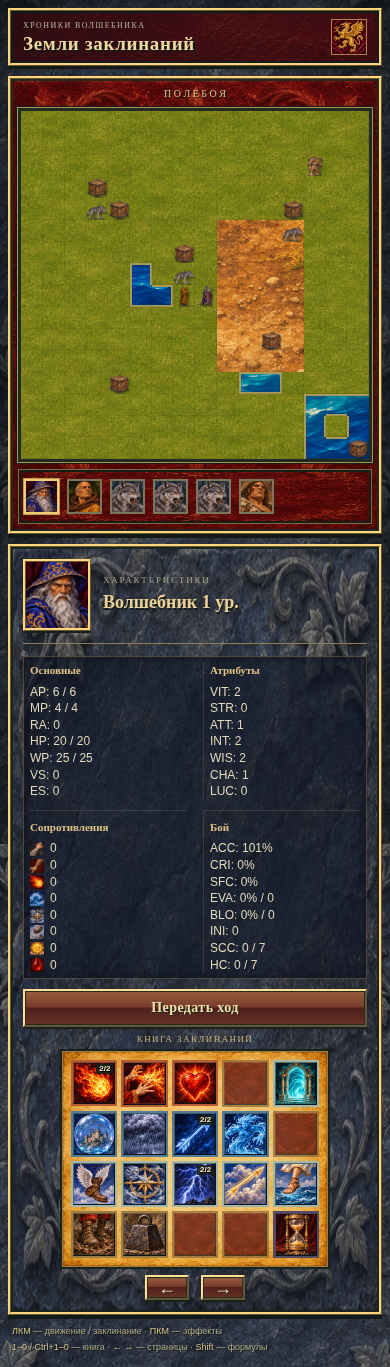
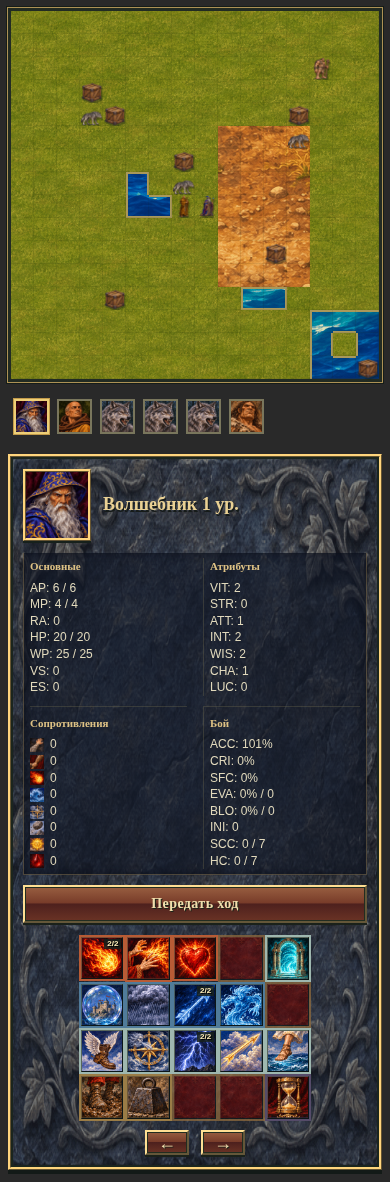
Simplify graphics layout and remove decorative panels and captions

diff --git a/homm2.css b/homm2.css
@@ -8,42 +8,20 @@
   --parchment: #e5d2a4;
 }
 body {
-  background: #1c202c url('assets/homm2/stone.png') center/512px 512px repeat;
+  background: #292929;
   color: var(--parchment);
   font-family: Georgia, 'Times New Roman', serif;
-}
-body::before {
-  content: ''; position: fixed; inset: 0; pointer-events: none;
-  box-shadow: inset 0 0 100px 28px #0c1012b0;
 }
 .game {
   position: relative; display: grid;
   grid-template-columns: auto 306px;
-  grid-template-areas: 'banner banner' 'arena panel' 'footer footer';
-  gap: 12px 16px;
+  grid-template-areas: 'arena panel';
+  gap: 16px;
   max-width: calc(100vw - 40px);
 }
-.campaign-banner {
-  grid-area: banner; position: relative; min-height: 66px;
-  display: flex; align-items: center; justify-content: space-between; gap: 18px;
-  padding: 10px 22px; border: 3px ridge var(--gold);
-  background: linear-gradient(90deg, #210e16b0, #24101b70), url('assets/homm2/leather.png') center/cover;
-  box-shadow: 0 3px 0 #151a16, inset 0 0 0 2px #101b1a;
-}
-.campaign-title { font-size: 23px; font-weight: bold; color: #f0d89d; text-shadow: 2px 2px #101817; letter-spacing: .7px; }
-.campaign-eyebrow { color: #b4b29a; font: 10px/1.7 Georgia, serif; text-transform: uppercase; letter-spacing: 2.4px; }
-.campaign-mark { display: block; flex: 0 0 48px; width: 48px; height: 44px; font-size: 0; background: url('assets/homm2/crest.png') center/cover; border: 1px solid #ad8440; }
-.campaign-subtitle { color: #c2c0a8; font-size: 11px; text-align: right; line-height: 1.6; }
 .arena {
   grid-area: arena; width: auto; align-self: start;
-  gap: 9px; padding: 10px; border: 3px ridge var(--gold);
-  background: #4d1b22 url('assets/homm2/leather.png') center/100% 100%;
-  box-shadow: 0 4px 0 #141917, inset 0 0 0 2px #24271d;
-}
-.arena::before {
-  content: 'П О Л Е   Б О Я'; align-self: stretch; text-align: center;
-  font-size: 10px; line-height: 15px; color: #e0c283;
-  text-shadow: 1px 1px #161c18;
+  gap: 9px; padding: 0; border: 0; background: transparent; box-shadow: none;
 }
 #battlefield {
   width: min(calc(100vw - 406px), calc(100dvh - 246px));
@@ -65,8 +43,7 @@ svg, svg image, #creature-portrait { image-rendering: auto; }
 #battlefield :is(.wizard,.monk,.wolf,.lake-spirit,.hill-giant,.obstacle) { filter: drop-shadow(1px 2px 0 #15201465); }
 #turn-order {
   min-height: 55px; height: 55px; border-radius: 0;
-  background: #251924 url('assets/homm2/leather.png') center/100% 100%;
-  box-shadow: inset 0 0 0 1px #7c6b43, inset 0 0 0 3px #161d17;
+  background: transparent; box-shadow: none;
   scrollbar-color: #8c774a #1b211c;
 }
 #turn-order::-webkit-scrollbar-track { background: #1b211c; border-radius: 0; }
@@ -87,7 +64,7 @@ svg, svg image, #creature-portrait { image-rendering: auto; }
 }
 .hero-masthead {
   display: flex; align-items: center; gap: 12px;
-  margin: 0 0 12px; padding-bottom: 12px; border-bottom: 1px solid #8c8050;
+  margin: 0 0 12px; padding-bottom: 0; border-bottom: 0;
 }
 .portrait-frame {
   width: 68px; height: 72px; flex: 0 0 68px;
@@ -95,9 +72,8 @@ svg, svg image, #creature-portrait { image-rendering: auto; }
   box-shadow: 0 2px #17211c;
 }
 #creature-portrait { display: block; width: 100%; height: 100%; object-fit: cover; }
-.hero-caption { color: #aaa78a; text-transform: uppercase; font-size: 9px; letter-spacing: 1.8px; margin-bottom: 6px; }
 .panel h1 { margin: 0; color: #ead194; font: bold 17px/1.3 Georgia, serif; text-shadow: 1px 2px #161b19; }
-.stats { font-family: 'Trebuchet MS', Arial, sans-serif; font-size: 12px; line-height: 1.26; gap: 9px 10px; color: #e1d9bc; padding: 5px 6px; border: 1px solid #b99a5b55; background: #1017259c; box-shadow: inset 0 0 12px #080c16b0; }
+.stats { font-family: 'Trebuchet MS', Arial, sans-serif; font-size: 12px; line-height: 1.26; gap: 9px 10px; color: #e1d9bc; padding: 5px 6px; border: 1px solid #b99a5b55; border-top: 0; background: #1017259c; box-shadow: inset 0 0 12px #080c16b0; }
 .stat-column h2 { color: #ddc184; font: bold 11px/1.6 Georgia, serif; margin-bottom: 4px; }
 .stat-column:nth-child(even), .stat-column:nth-child(n+3) { border-color: #7d77534d; }
 .stat-column > span { min-height: 15px; }
@@ -115,13 +91,9 @@ button { -webkit-tap-highlight-color: transparent; }
 #end-turn:active:not(:disabled), .spell-pages button:active:not(:disabled) { border-style: inset; }
 .spell-pages button:disabled { background: #30382b; color: #7d8066; border-color: #6e704e; }
 .spells {
-  width: 264px; gap: 4px; margin-top: 24px; position: relative;
-  padding: 8px; background: #b79c65 url('assets/homm2/parchment.png') center/100% 100%;
-  box-shadow: 0 0 0 1px #957e4e, 0 0 0 3px #1a231b;
-}
-.spells::before {
-  content: 'КНИГА ЗАКЛИНАНИЙ'; position: absolute; top: -19px; left: 0; right: 0;
-  text-align: center; color: #c9b77d; font: 9px/1.5 Georgia, serif; letter-spacing: 1.4px;
+  /* Preserve slot size: 264 - 2×8 padding - 4×4 gaps = 232px. */
+  width: 232px; gap: 0; margin-top: 12px; position: relative;
+  padding: 0; background: transparent; box-shadow: none;
 }
 .spell-slot { padding: 1px; background: #202c27; border-color: #776f51; box-shadow: inset 1px 1px #d2b77933, inset -1px -1px #0c1618; }
 .spell-slot:not(button) { background: #321920 url('assets/homm2/leather.png') center/cover; border-color: #8e6a3d; opacity: .75; }
@@ -154,12 +126,6 @@ button:focus-visible { outline: 2px solid #ffe8a0; outline-offset: 2px; }
 .effect-icon { border-radius: 0; }
 .effect-icon.suppressed { opacity: .4; filter: grayscale(1); }
 .close-effects { top: 0; }
-.campaign-footer {
-  grid-area: footer; display: flex; justify-content: space-between; gap: 18px;
-  color: #b1ac8a; text-shadow: 1px 1px #141b16;
-  font: 10px/1.5 'Trebuchet MS', sans-serif; padding-inline: 4px;
-}
-.campaign-footer b { color: #d4c28c; font-weight: normal; }
 .path-cost, .effect-preview { border-radius: 0; background: #18221de8; }
 .damage-label, .bonus-label, .miss-label, .failure-label { font-family: Georgia, serif; text-shadow: 1px 1px #171a16, -1px 0 #171a16, 0 1px #171a16; }
 .spell-projectile[data-type='fire'] { background: url('assets/homm2/spell-fire-shot.png') center/contain; }
@@ -178,9 +144,7 @@ button:focus-visible { outline: 2px solid #ffe8a0; outline-offset: 2px; }
 .defeat-message { font-family: Georgia, serif; color: #d6b670; }
 .defeat-hint { color: #d4c49d; font-family: Georgia, serif; }
 @media (max-height: 760px) and (min-width: 641px) {
-  .campaign-banner { min-height: 48px; padding-block: 5px; }
-  .campaign-title { font-size: 19px; }
-  .hero-masthead { padding-bottom: 8px; margin-bottom: 8px; }
+  .hero-masthead { margin-bottom: 8px; }
   .portrait-frame { width: 44px; height: 46px; flex-basis: 44px; }
   .panel { max-height: calc(100dvh - 100px); }
   #battlefield { width: min(calc(100vw - 406px), calc(100dvh - 214px)); }
@@ -192,19 +156,13 @@ button:focus-visible { outline: 2px solid #ffe8a0; outline-offset: 2px; }
     display: flex; flex-direction: column; align-items: stretch;
     max-width: none; width: calc(100% - 16px); margin: 8px auto 12px; gap: 10px;
   }
-  .campaign-banner { min-height: 58px; padding: 8px 12px; gap: 9px; }
-  .campaign-title { font-size: 19px; }
-  .campaign-eyebrow { font-size: 8px; letter-spacing: 1.4px; }
-  .campaign-subtitle { display: none; }
-  .campaign-mark { width: 36px; height: 36px; flex-basis: 36px; }
-  .arena { padding: 7px; gap: 7px; align-self: stretch; }
+  .arena { gap: 7px; align-self: stretch; }
   #battlefield { width: 100%; }
   #turn-order { width: 100%; }
   .panel { width: 100%; max-height: none; overflow: visible; padding: 12px; }
   .stats { grid-template-columns: repeat(2, minmax(0,1fr)); line-height: 1.3; gap: 10px 16px; font-size: 12px; }
   .stat-column:nth-child(n+3) { padding-top: 8px; }
   .hero-masthead { margin-bottom: 12px; }
-  .spells { width: 264px; margin-top: 25px; }
+  .spells { width: 232px; margin-top: 12px; }
   .panel h1 { font-size: 18px; margin: 0; }
-  .campaign-footer { font-size: 9px; flex-wrap: wrap; gap: 3px; }
 }

diff --git a/index.html b/index.html
@@ -9,11 +9,6 @@
 </head>
 <body>
   <main class="game">
-    <header class="campaign-banner">
-      <div><div class="campaign-eyebrow">Хроники волшебника</div><div class="campaign-title">Земли заклинаний</div></div>
-      <span class="campaign-mark" aria-hidden="true">✦</span>
-      <div class="campaign-subtitle">Клинок и колдовство<br>Тактическое сражение</div>
-    </header>
     <section class="arena" aria-label="Поле и очередь ходов">
       <div id="battlefield" aria-label="Поле боя 16 на 16 клеток"></div>
       <div id="turn-order" aria-label="Очередь ходов"></div>
@@ -21,7 +16,7 @@
     <aside class="panel" aria-labelledby="character-name">
       <div class="hero-masthead">
         <div class="portrait-frame" aria-hidden="true"><img id="creature-portrait" src="assets/homm2/portrait-wizard.png" alt=""></div>
-        <div><div class="hero-caption">Характеристики</div><h1 id="character-name">Волшебник</h1></div>
+        <h1 id="character-name">Волшебник</h1>
       </div>
       <div class="stats" aria-live="polite" aria-atomic="true">
         <section class="stat-column"><h2>Основные</h2>
@@ -75,7 +70,6 @@
         <section><h2>Состояния</h2><div id="state-effects" class="effect-grid"></div></section>
       </div>
     </aside>
-    <footer class="campaign-footer"><span><b>ЛКМ</b> — движение / заклинание · <b>ПКМ</b> — эффекты</span><span><b>1–0 / Ctrl+1–0</b> — книга · <b>← →</b> — страницы · <b>Shift</b> — формулы</span></footer>
   </main>
   <div id="defeat-overlay" hidden aria-live="assertive">
     <div class="defeat-message">Вы проиграли!</div>

diff --git a/GRAPHICS.md b/GRAPHICS.md
@@ -3,8 +3,10 @@
 Ветка `dev-homm2-graphics`: живописная растровая графика в духе фэнтези-стратегий
 1990-х. Детализированные существа с реалистичными пропорциями, отдельные портреты,
 иллюстрированные иконки заклинаний и состояний, цельная поверхность поля без
-повторяющихся штампов травы. Интерфейс: холодный резной камень, бордовая кожа,
-тёплый пергамент и золотые рамки. В очереди отображаются портреты существ.
+повторяющихся штампов травы. Панель существа оформлена резным камнем и золотыми
+рамками; в очереди отображаются портреты. Общий фон тёмно-серый, поле и очередь
+не имеют общей декоративной подложки. Книга — сетка иконок вплотную, без фона,
+внутренних отступов, заголовка и пояснений по управлению.
 Все ресурсы локальные: внешние шрифты, CDN и загрузка чужих игровых ресурсов не нужны.
 
 ![Компьютер, 1280×900](docs/homm2-desktop.png)
@@ -27,7 +29,7 @@
   Python + Pillow. Масштабирование, выравнивание спрайтов и палитра до 256 цветов
   не меняют игровые данные. Старый `build-pixel-art.py` вызывает эту же сборку.
   Запуск: `python tools/build-homm2-assets.py`. Для самой игры Python не нужен.
-- `index.html` — подключение оформления и декоративная шапка, портрет, подсказки управления.
+- `index.html` — подключение оформления и портрет существа; лишние декоративные подписи удалены.
 
 Боевые модули, характеристики, карта, прицеливание, поиск пути, ИИ, очередь,
 таймеры и обработчики клавиш/кликов не изменены. Сохранены доступные имена,
